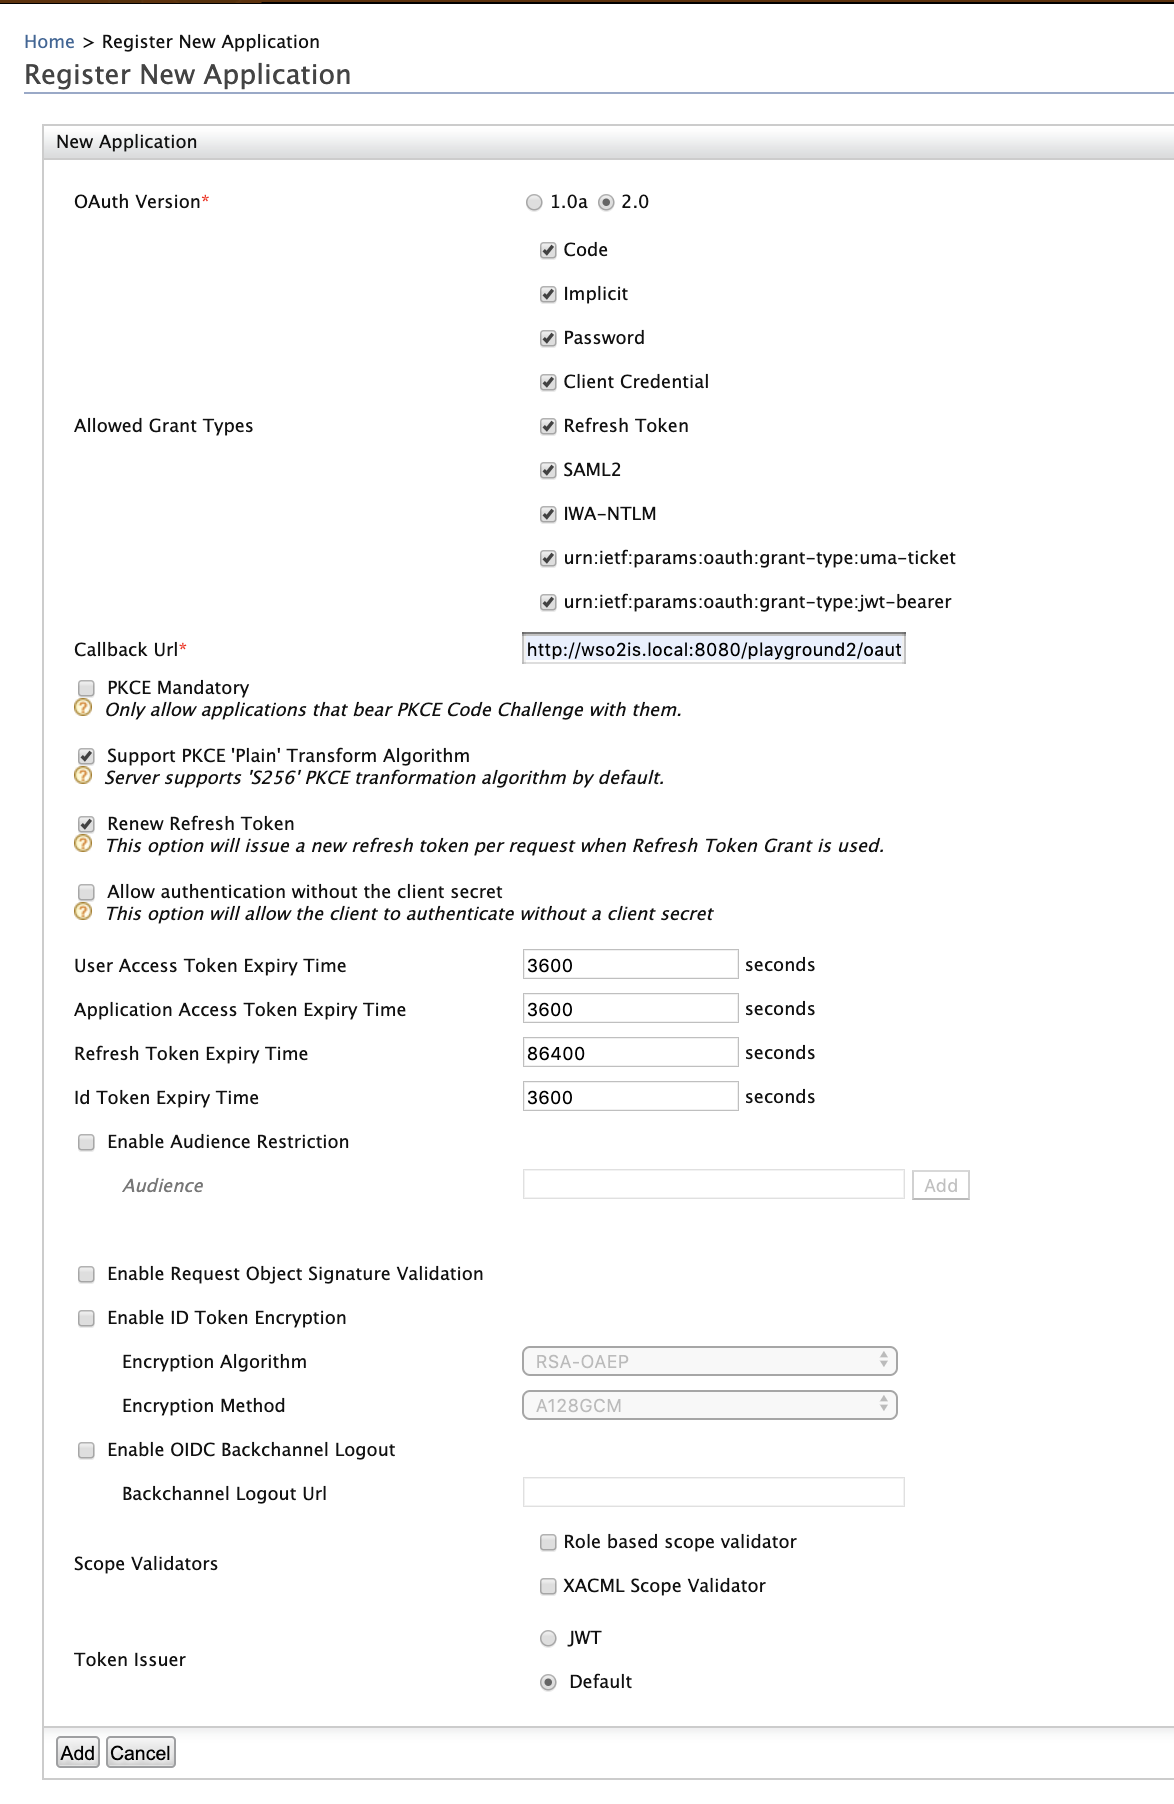
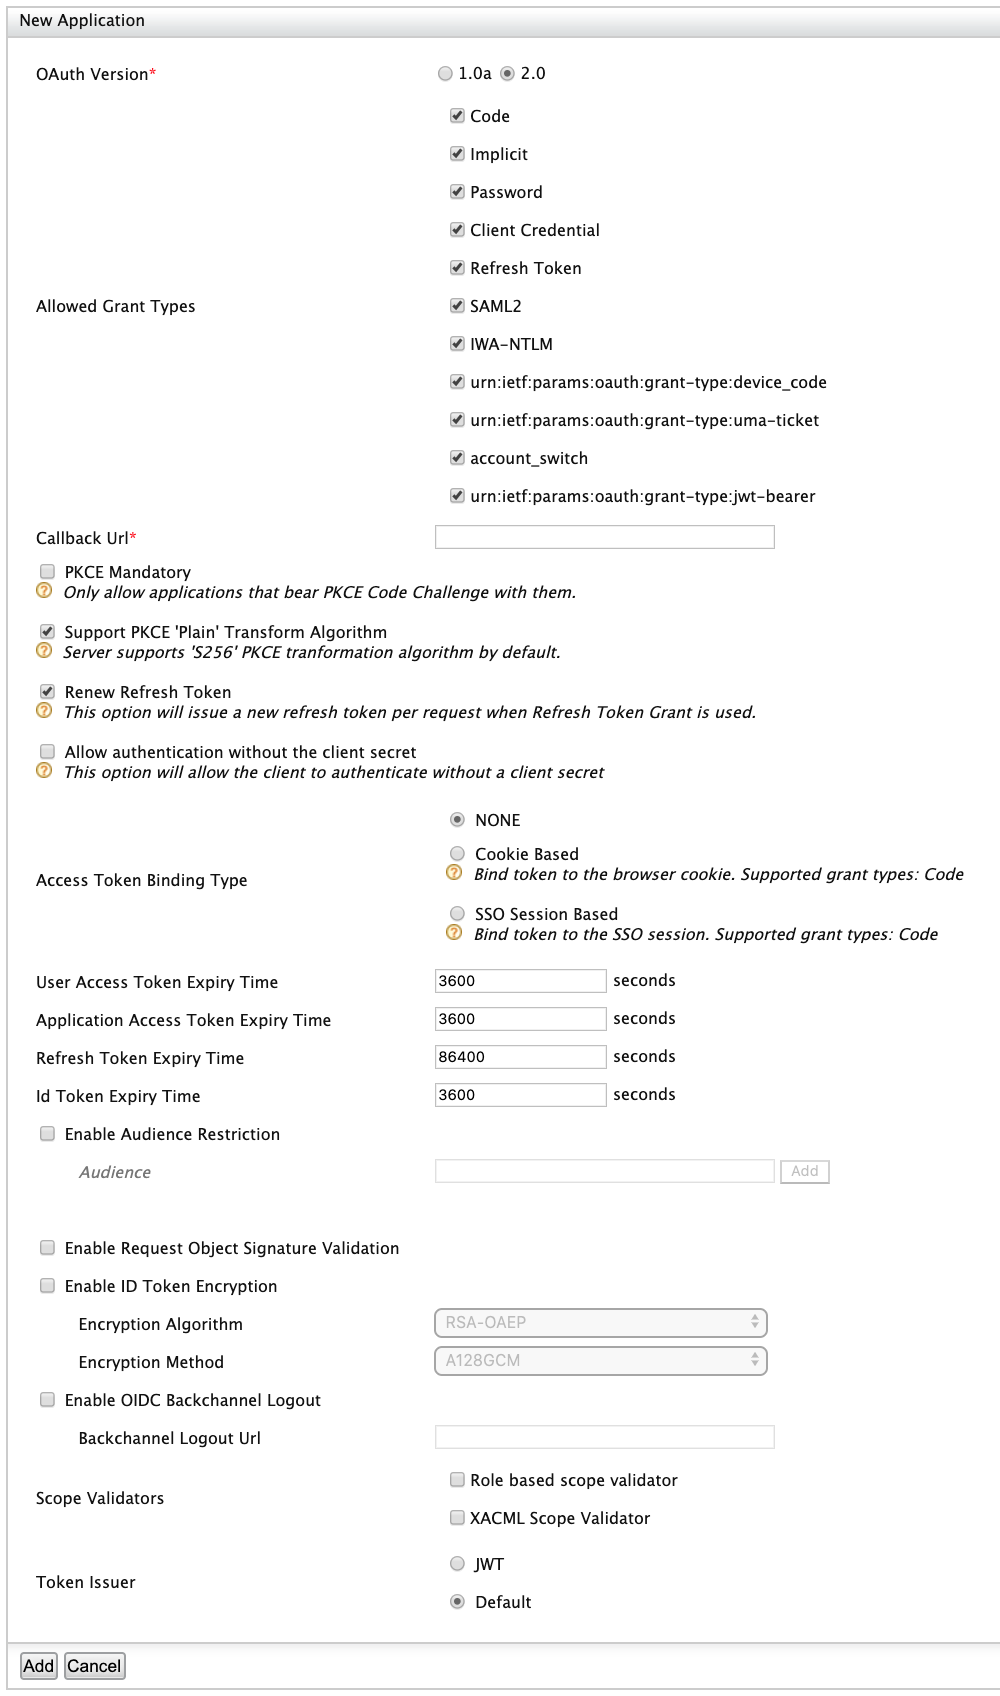
Add documentation for OAuth2 access token binding types.

diff --git a/en/docs/learn/configuring-oauth2-openid-connect-single-sign-on.md b/en/docs/learn/configuring-oauth2-openid-connect-single-sign-on.md
@@ -134,6 +134,21 @@ Let's get started to configure the service provider you created!
          <td><strong>Allow Authentication without the client secret</strong></td>
          <td>This enables authenticating the client without the <code>               client secret              </code>.</td>
       </tr>
+            <tr class="even">
+               <td>
+                  <div class="content-wrapper">
+                     <p><strong>Access Token Binding Type</strong></p>
+                  </div>
+               </td>
+               <td>
+                  This section provides the capability to attach the OAuth2 access token and refresh token to an external attribute during the token generation and optionally validate the external attribute during the API invocation.
+                  <ul>
+                     <li><strong>None</strong> : No binding.</li>
+                     <li><strong>Cookie Based</strong> : This binding type is designed to improve the security of Single Page Applications(SPA) where access_token is stored at the browser. With this binding, additionally to the access token validation, a cookie with <code>Secure</code> and <code>HttpOnly</code> parameters will be validated to grant access.  In the current implementation, this binding type can be enabled for authorization code grant with <strong>Allow Authentication without the client secret</strong> option. When this is enabled new cookie named <strong>atbv</strong> will be returned with the authorization code to the client browser. When the application makes the token request with this cookie, that cookie will get validated and attached to the generated tokens. Now, whenever the SPA tries to access the Identity Server API, it needs to present the access token + cookie for successful authorization.</li>
+                     <li><strong>SSO Session Based</strong> : This binding type is designed to <strong>generate different tokens</strong> for each new browser instance. With this, you can avoid the same access token getting shared with multiple browser instances of the same application. Also, you can revoke the access token when you are logging out from one application(browser) instance and not break other instances. This binding type is supported for <strong>authorization code</strong> grant type.</li>
+                  </ul>
+               </td>
+            </tr>
       <tr class="odd">
          <td>
             <p><strong>User Access Token Expiry Time, Application Access Token Expiry Time, Refresh Token Expiry Time, Id Token Expiry Time</strong></p>
